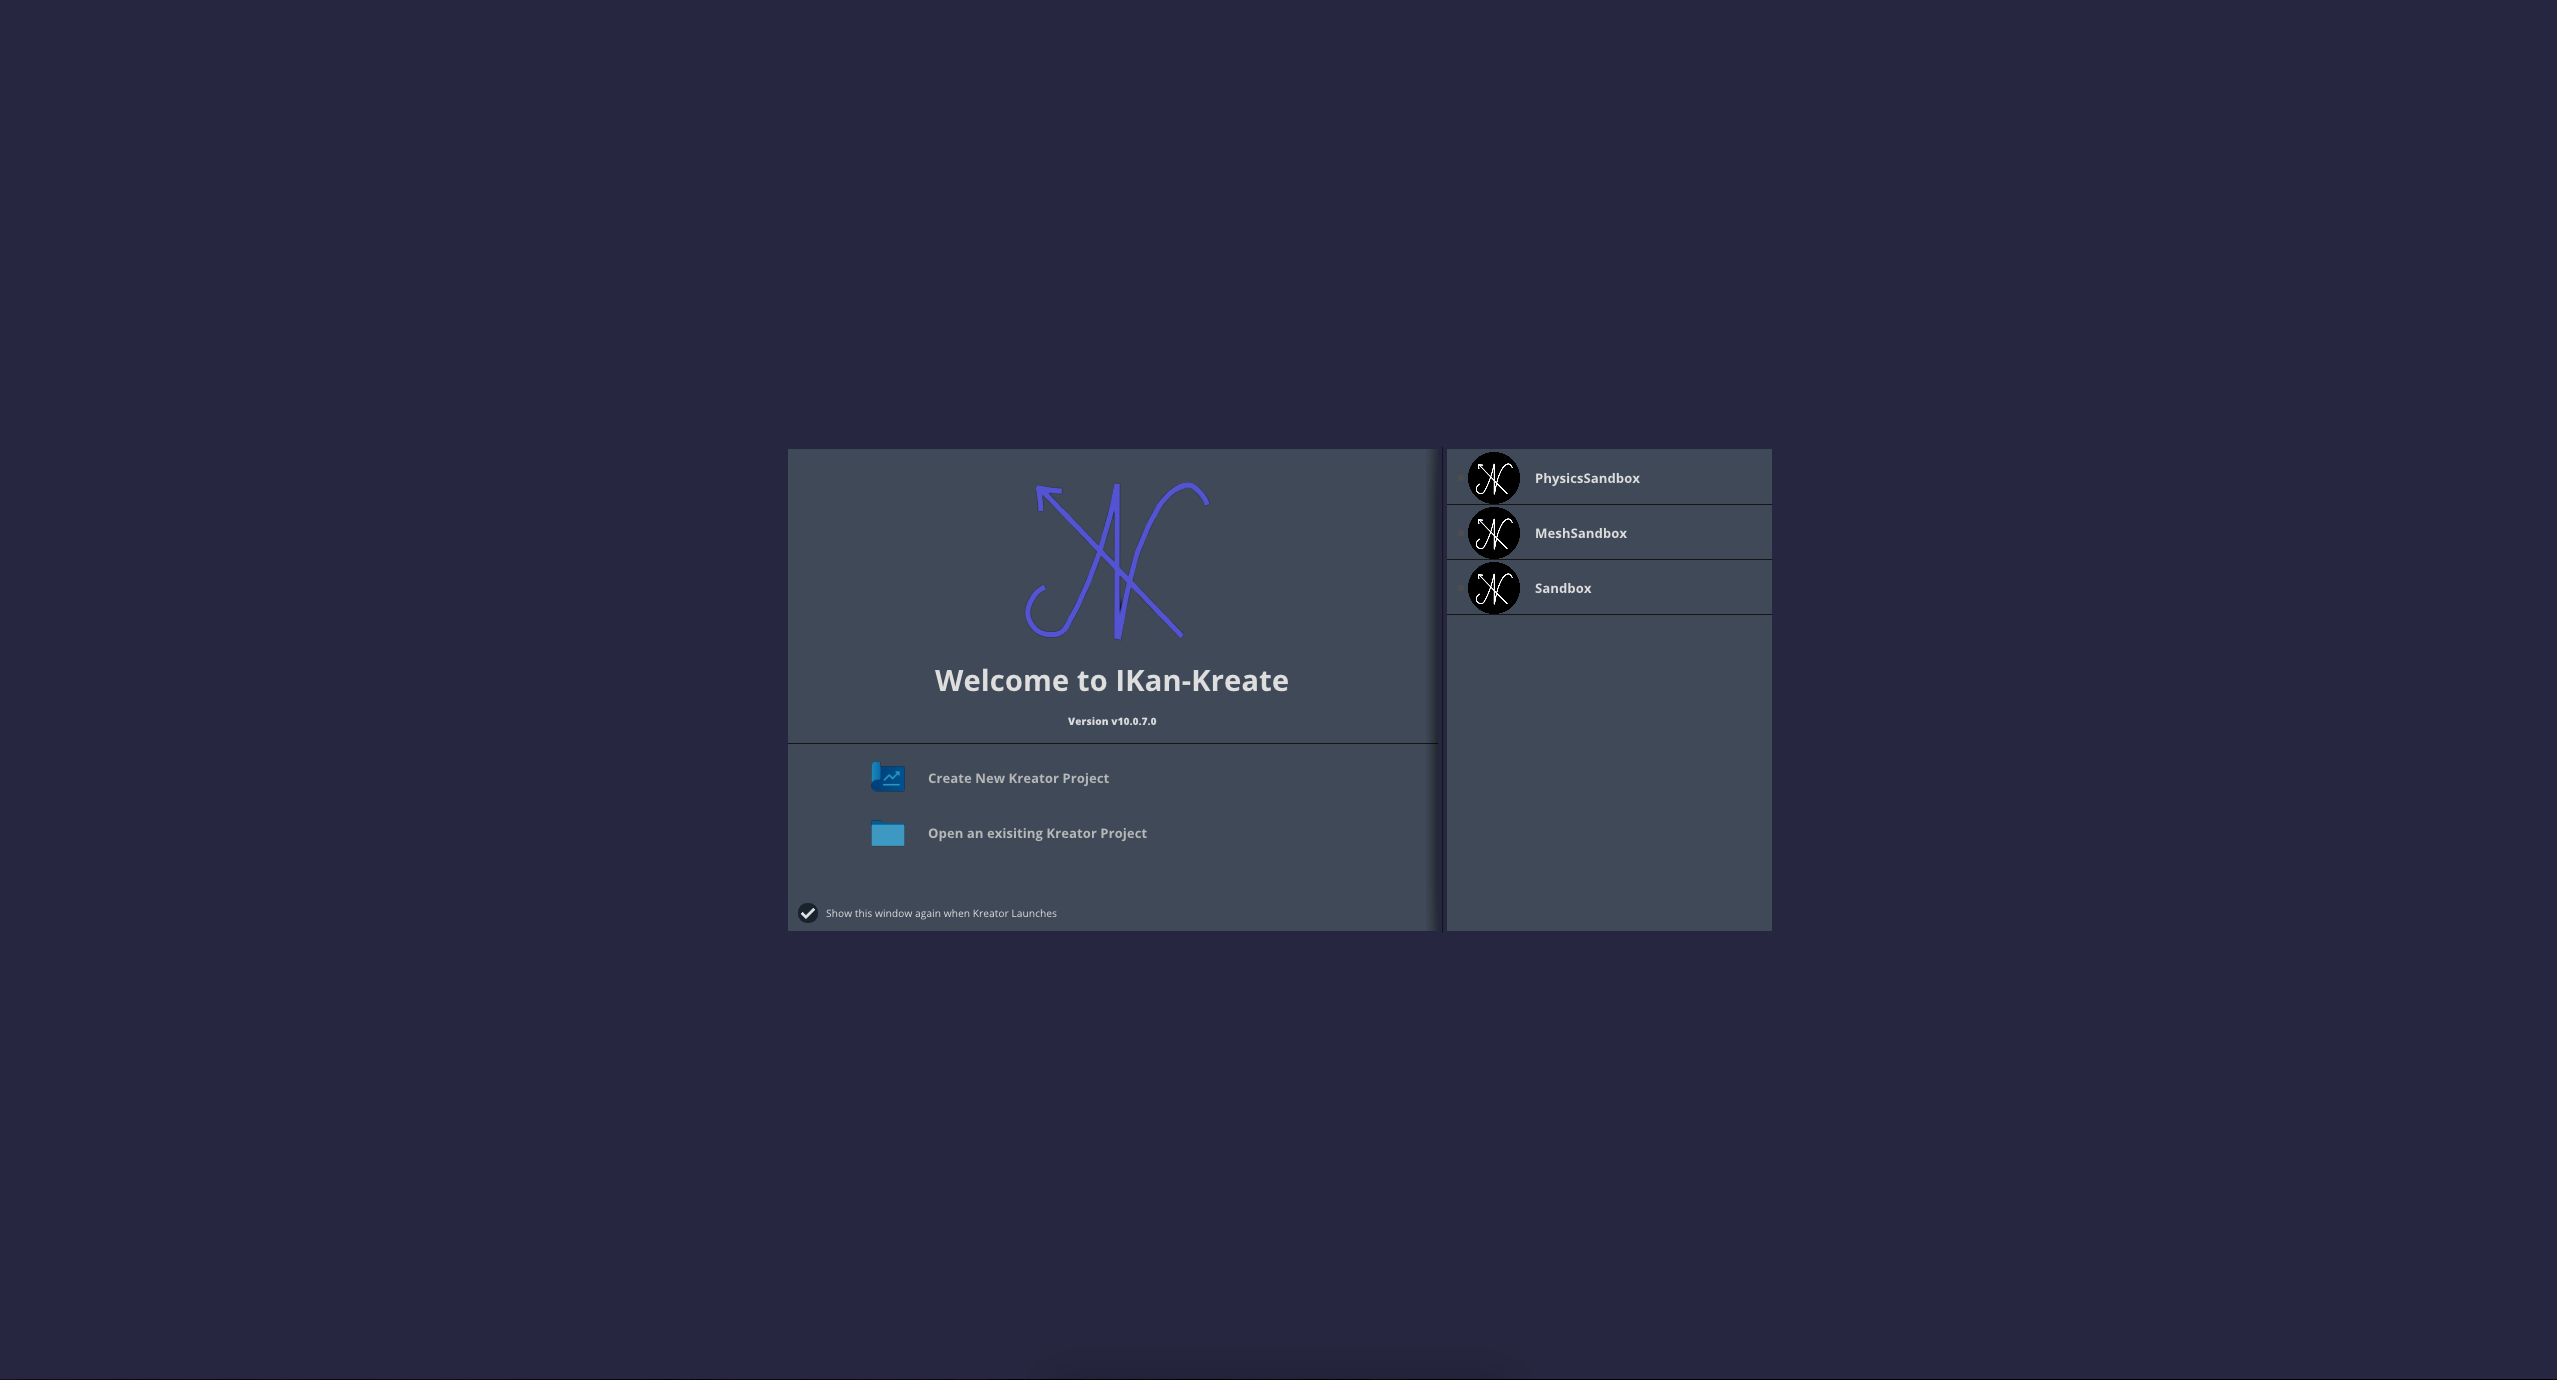
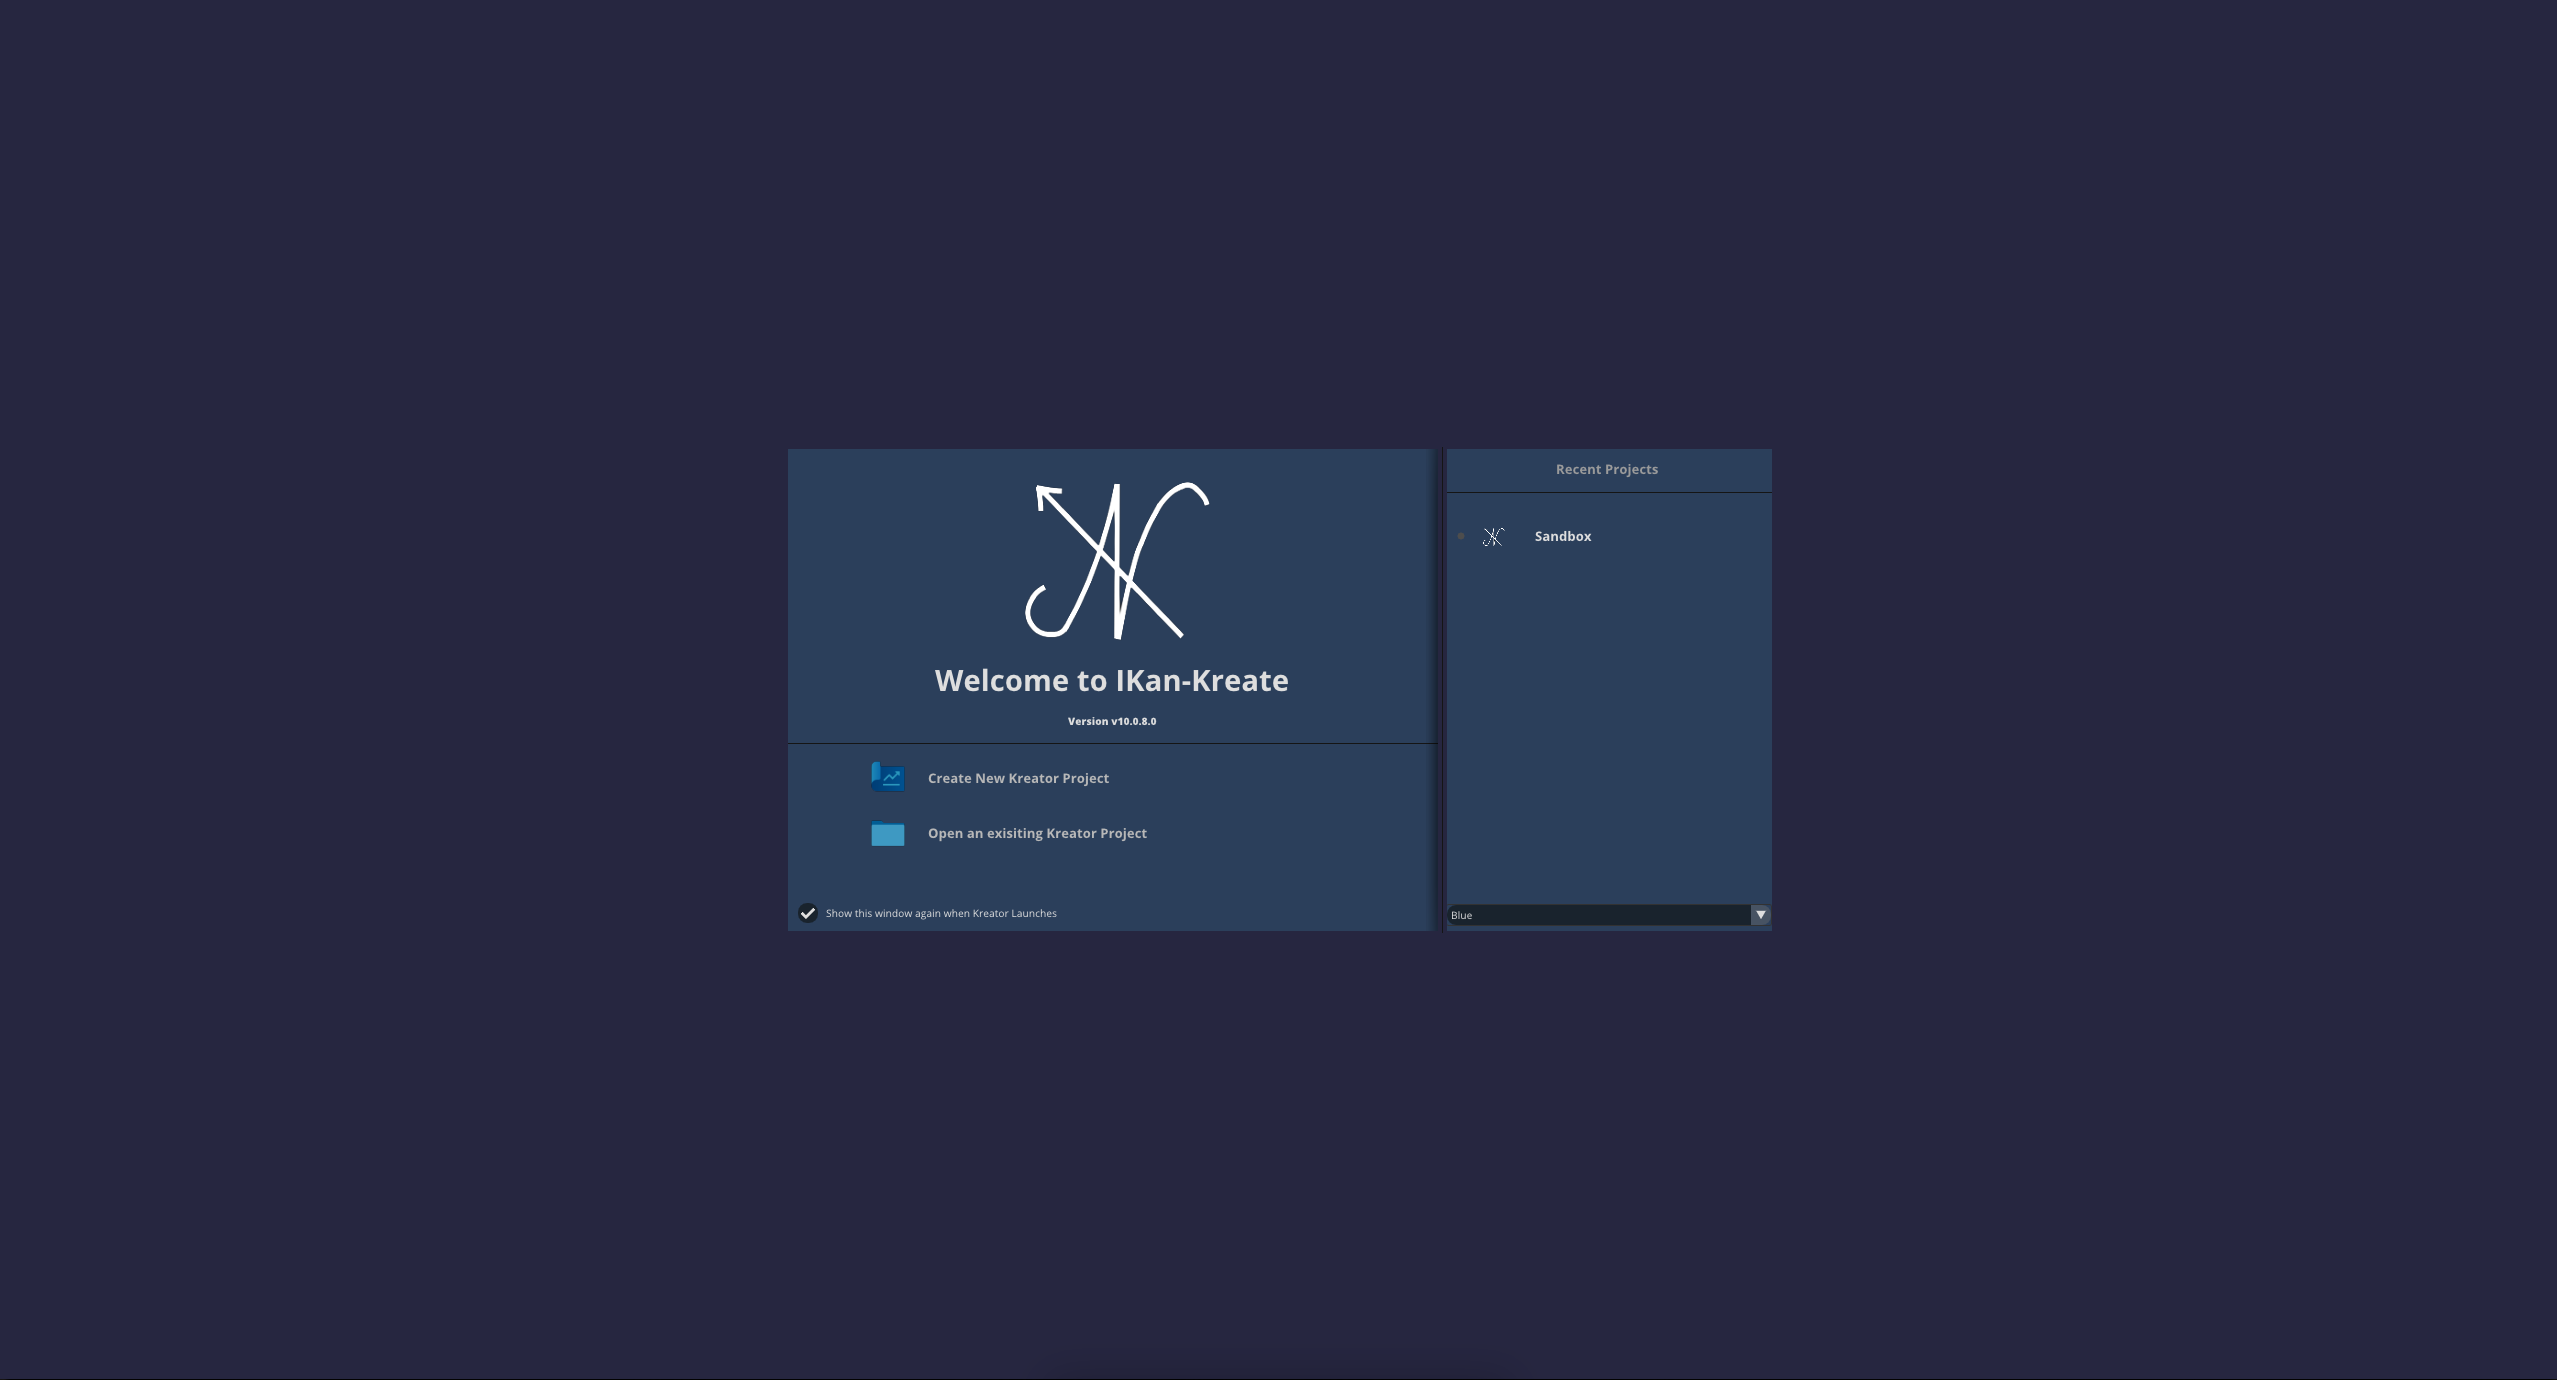
Mini Viewport in Editor

Changed region(s): [[0.5561, 0.3116, 0.6488, 0.4362], [0.4016, 0.3428, 0.4634, 0.4674], [0.5561, 0.6543, 0.7106, 0.6855]]

diff --git a/Kreator/Kreator/RendererLayer.cpp b/Kreator/Kreator/RendererLayer.cpp
@@ -297,7 +297,7 @@ if (!Project::GetActive()) return
         // Render Mini Viewport
         {
           m_miniViewportRenderer->BeginRenderPass();
-          Renderer::Clear({0.12f, 0.12f, 0.14f, 1.0f});
+          Renderer::Clear({0.1f, 0.1f, 0.1f, 1.0f});
           m_editorScene->OnUpdateEditor(ts);
           m_editorScene->OnRenderRuntime(ts, m_viewportRenderer);
           m_miniViewportRenderer->EndRenderPass();
@@ -464,6 +464,7 @@ if (!Project::GetActive()) return
   {
     m_viewportRenderer->SetViewport(m_viewport.width, m_viewport.height);
     m_editorCamera.SetViewportSize(m_viewport.width, m_viewport.height);
+    m_currentScene->SetViewportSize(m_viewport.width, m_viewport.height);
   }
   
   void RendererLayer::UpdateHoveredEntity()
@@ -659,7 +660,7 @@ if (!Project::GetActive()) return
   {
     Renderer2D::BeginBatch(m_editorCamera.GetUnReversedViewProjection(), m_editorCamera.GetViewMatrix());
     
-    if (m_showIcons)
+    if (m_showIcons and m_sceneState == SceneState::Edit)
     {
       ShowIcons();
     }
@@ -2446,6 +2447,7 @@ if (!Project::GetActive()) return
       
       Kreator_UI::Property("Show Icons", m_showIcons);
       Kreator_UI::Property("Show Colliders", m_showColliders);
+      Kreator_UI::Property("Show Mini Viewport", m_showMiniViewport);
       Kreator_UI::EndPropertyGrid();
     }
     ImGui::End();

diff --git a/IKan/Implementation/Scene/Scene.cpp b/IKan/Implementation/Scene/Scene.cpp
@@ -115,7 +115,7 @@ namespace IKan
   
   void Scene::OnRenderEditor(const EditorCamera &editorCamera, const Ref<SceneRenderer> renderer)
   {
-    renderer->BeginScene(editorCamera.GetUnReversedViewProjection(), editorCamera.GetViewMatrix());
+    renderer->BeginScene(editorCamera.GetUnReversedViewProjection());
     Render3DEntities(renderer);
     renderer->EndScene();
 
@@ -135,7 +135,7 @@ namespace IKan
     const auto& mainCamera = cameraEntity.GetComponent<CameraComponent>().camera;
     const auto& cameraTransform = cameraEntity.GetComponent<TransformComponent>().Transform();
     
-    renderer->BeginScene(mainCamera.GetProjectionMatrix() * glm::inverse(cameraTransform), glm::inverse(cameraTransform));
+    renderer->BeginScene(mainCamera.GetProjectionMatrix() * glm::inverse(cameraTransform));
     Render3DEntities(renderer);
     renderer->EndScene();
 
@@ -146,7 +146,7 @@ namespace IKan
   
   void Scene::OnRenderSimulation(TimeStep ts, const EditorCamera& editorCamera, const Ref<SceneRenderer> renderer)
   {
-    renderer->BeginScene(editorCamera.GetUnReversedViewProjection(), editorCamera.GetViewMatrix());
+    renderer->BeginScene(editorCamera.GetUnReversedViewProjection());
     Render3DEntities(renderer);
     renderer->EndScene();
 

diff --git a/IKan/Interface/Renderer/SceneRenderer.hpp b/IKan/Interface/Renderer/SceneRenderer.hpp
@@ -25,7 +25,6 @@ namespace IKan
     uint32_t viewportWidth, viewportHeight;
     Ref<RenderPass> renderPass;
     glm::mat4 camViewProjection;
-    glm::mat4 camView;
   };
   
   class SceneRenderer
@@ -44,10 +43,8 @@ namespace IKan
     void SetViewport(uint32_t width, uint32_t height);
     
     /// This function begins the Batch for 2D Rendere (to be called each frame)
-    /// - Parameters:
-    ///   - camViewProjMat: Camera View projection Matrix
-    ///   - camViewMat: Camera Ciew matrix
-    void BeginScene(const glm::mat4& camViewProjMat, const glm::mat4& camViewMat);
+    /// - Parameter camViewProjMat: Camera View projection Matrix
+    void BeginScene(const glm::mat4& camViewProjMat);
     /// This function Ends the current batch by rendering all the vertex
     void EndScene();
     

diff --git a/IKan/Implementation/Renderer/SceneRenderer.cpp b/IKan/Implementation/Renderer/SceneRenderer.cpp
@@ -59,16 +59,14 @@ namespace IKan
     }
   }
 
-  void SceneRenderer::BeginScene(const glm::mat4& camViewProjMat, const glm::mat4& camViewMat)
+  void SceneRenderer::BeginScene(const glm::mat4& camViewProjMat)
   {
     if (m_commonData->needResize)
     {
       // Resize the framebuffer
       m_commonData->renderPass->Resize(m_commonData->viewportWidth, m_commonData->viewportHeight);
     }
-    
     m_commonData->camViewProjection = camViewProjMat;
-    m_commonData->camView = camViewMat;
   }
   
   void SceneRenderer::SubmitMeshSource(Ref<MeshSource> mesh, const glm::mat4& transform)

diff --git a/IKan/Implementation/Camera/SceneCamera.cpp b/IKan/Implementation/Camera/SceneCamera.cpp
@@ -28,6 +28,7 @@ namespace IKan
   : m_projectionType(projType)
   {
     IK_LOG_TRACE(LogModule::SceneCamera, "Creating {0} Scene Camera ...", CameraUtils::GetProjectionNameFromType(m_projectionType));
+    RecalculateProjection();
   }
   
   void SceneCamera::SetPerspective(float degVerticalFOV, float nearClip, float farClip)

diff --git a/Kreator/Kreator/RendererLayer.hpp b/Kreator/Kreator/RendererLayer.hpp
@@ -201,6 +201,7 @@ namespace Kreator
     // Flags ---------------------------------------------
     bool m_showIcons = true;
     bool m_showColliders = true;
+    bool m_showMiniViewport = true;
 
     // Popups --------------------------------------------
     bool m_showWelcomePopup = false;

diff --git a/IKan/Implementation/Core/Common.cpp b/IKan/Implementation/Core/Common.cpp
@@ -11,7 +11,7 @@
 
 /// Version number of IKan Engine
 ///- Note: To be updated manually
-std::string IKanVersion = "v10.0.7.0";
+std::string IKanVersion = "v10.0.8.0";
 
 void InitializeEngine(const std::string logDirectoryPath)
 {    
